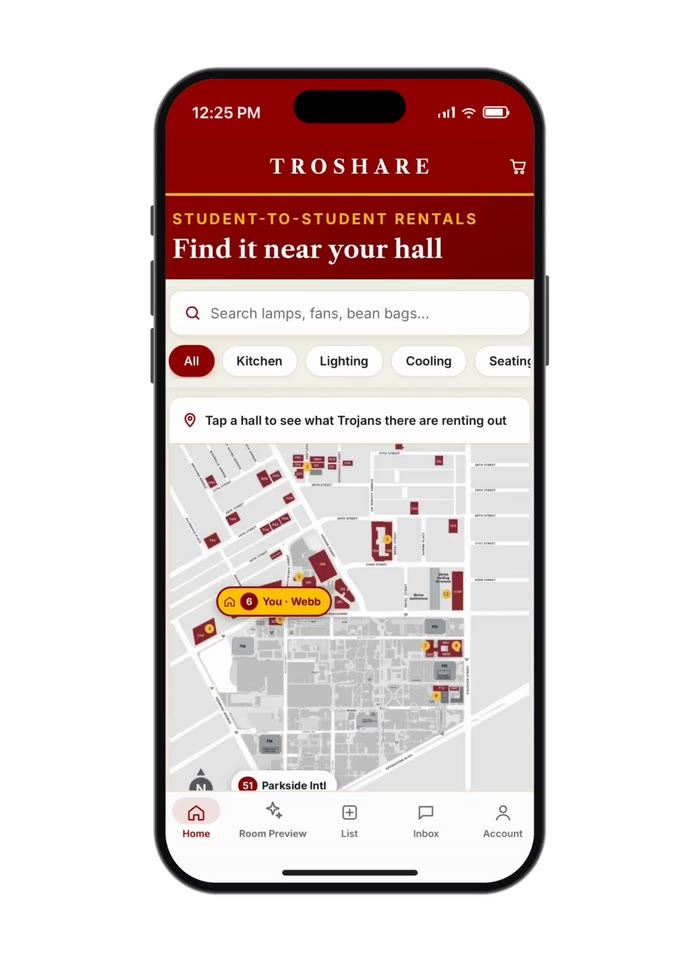
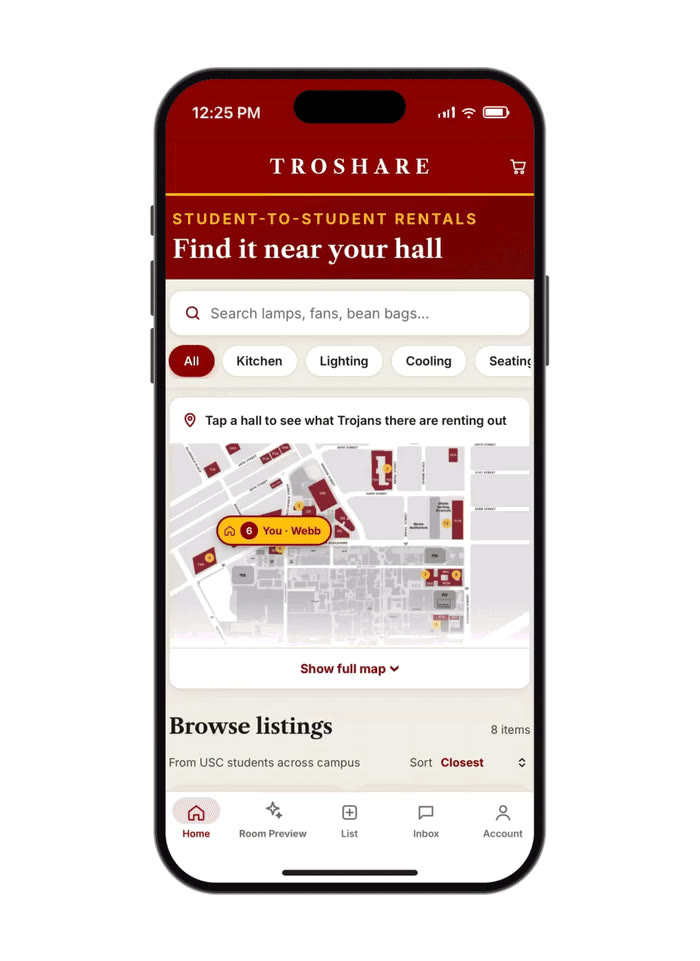
Fix TroShare demos: account opening hold and bottom bar, room smudge and bottom bar, header red

diff --git a/index.html b/index.html
@@ -388,13 +388,13 @@
                 <p>Students browse dorm essentials on an interactive map of USC residence halls, filter by category, and rent by the semester or academic year from someone a short walk away.</p>
               </div>
               <figure class="fold-media staso-media troshare-phone">
-                <img class="scroll-gif" src="assets/troshare-map-poster.jpg?v=7" data-gif="assets/troshare-map.gif?v=7" alt="Browsing TroShare listings on the USC residence hall map" />
+                <img class="scroll-gif" src="assets/troshare-map-poster.jpg?v=8" data-gif="assets/troshare-map.gif?v=8" alt="Browsing TroShare listings on the USC residence hall map" />
               </figure>
             </section>
 
             <section class="fold-feature">
               <figure class="fold-media staso-media troshare-phone">
-                <img class="scroll-gif" src="assets/troshare-room-poster.jpg?v=9" data-gif="assets/troshare-room.gif?v=9" alt="Room Preview: Claude recommends a floor lamp for a photographed room and places it in the photo" />
+                <img class="scroll-gif" src="assets/troshare-room-poster.jpg?v=10" data-gif="assets/troshare-room.gif?v=10" alt="Room Preview: Claude recommends a floor lamp for a photographed room and places it in the photo" />
               </figure>
               <div class="fold-copy">
                 <h3>Plan Your Room with AI</h3>
@@ -434,7 +434,7 @@
 
             <section class="fold-feature">
               <figure class="fold-media staso-media troshare-phone">
-                <img class="scroll-gif" src="assets/troshare-account-poster.jpg?v=5" data-gif="assets/troshare-account.gif?v=5" alt="The My Account page in TroShare: profile, roommates, rentals, recently viewed and favorites" />
+                <img class="scroll-gif" src="assets/troshare-account-poster.jpg?v=6" data-gif="assets/troshare-account.gif?v=6" alt="The My Account page in TroShare: profile, roommates, rentals, recently viewed and favorites" />
               </figure>
               <div class="fold-copy">
                 <h3>Your rentals, all in one place</h3>
